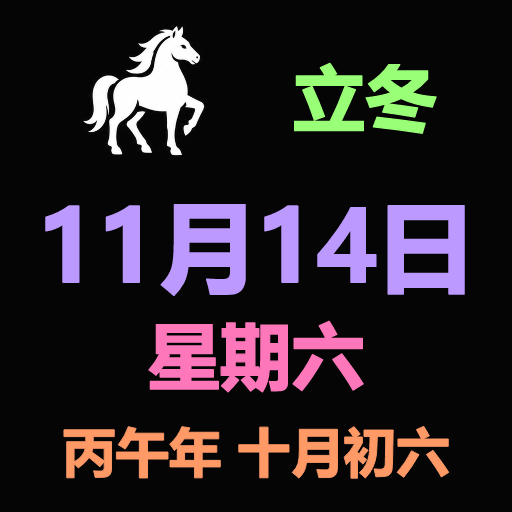
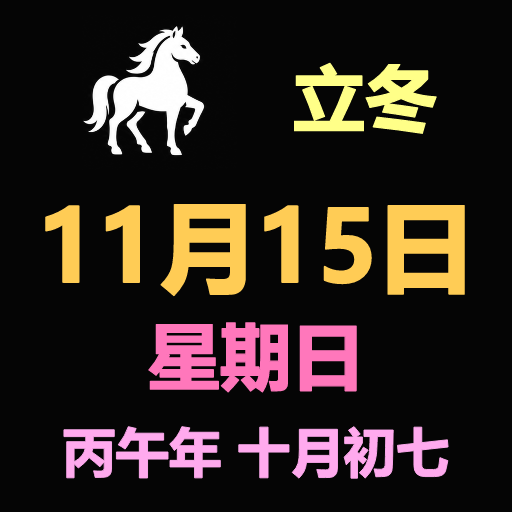
Add files via upload

diff --git a/inspector.css b/inspector.css
@@ -56,3 +56,4 @@ select, input[type="color"] {
 .apply-row { grid-column: 1 / -1; display: flex; align-items: center; gap: 10px; }
 button { font: inherit; padding: 5px 16px; cursor: pointer; }
 #apply-status { color: #ddd; }
+.release-version { margin-top: 12px; color: #bdbdbd; font-size: 11px; text-align: right; }

diff --git a/inspector.html b/inspector.html
@@ -70,5 +70,6 @@
       </div>
     </fieldset>
   </form>
+  <footer class="release-version">Version 1.0</footer>
 </main>
 </html>

diff --git a/README.md b/README.md
@@ -20,8 +20,6 @@ Use Windows 10 or 11 (x64) and Stream Deck 7.1 or later. Double-click the `.stre
 
 The calendar, settings and image rendering run locally inside Stream Deck. An internet connection is required to visit Google Calendar.
 
-![Lunar Calendar settings preview](preview-2.jpg)
-
 ## Read the source
 
 Inside `io.github.lunarcalendar.windows.sdPlugin/`, start with `plugin.cjs` to see how Stream Deck events connect to calendar rendering, per-key settings and Google Calendar.
